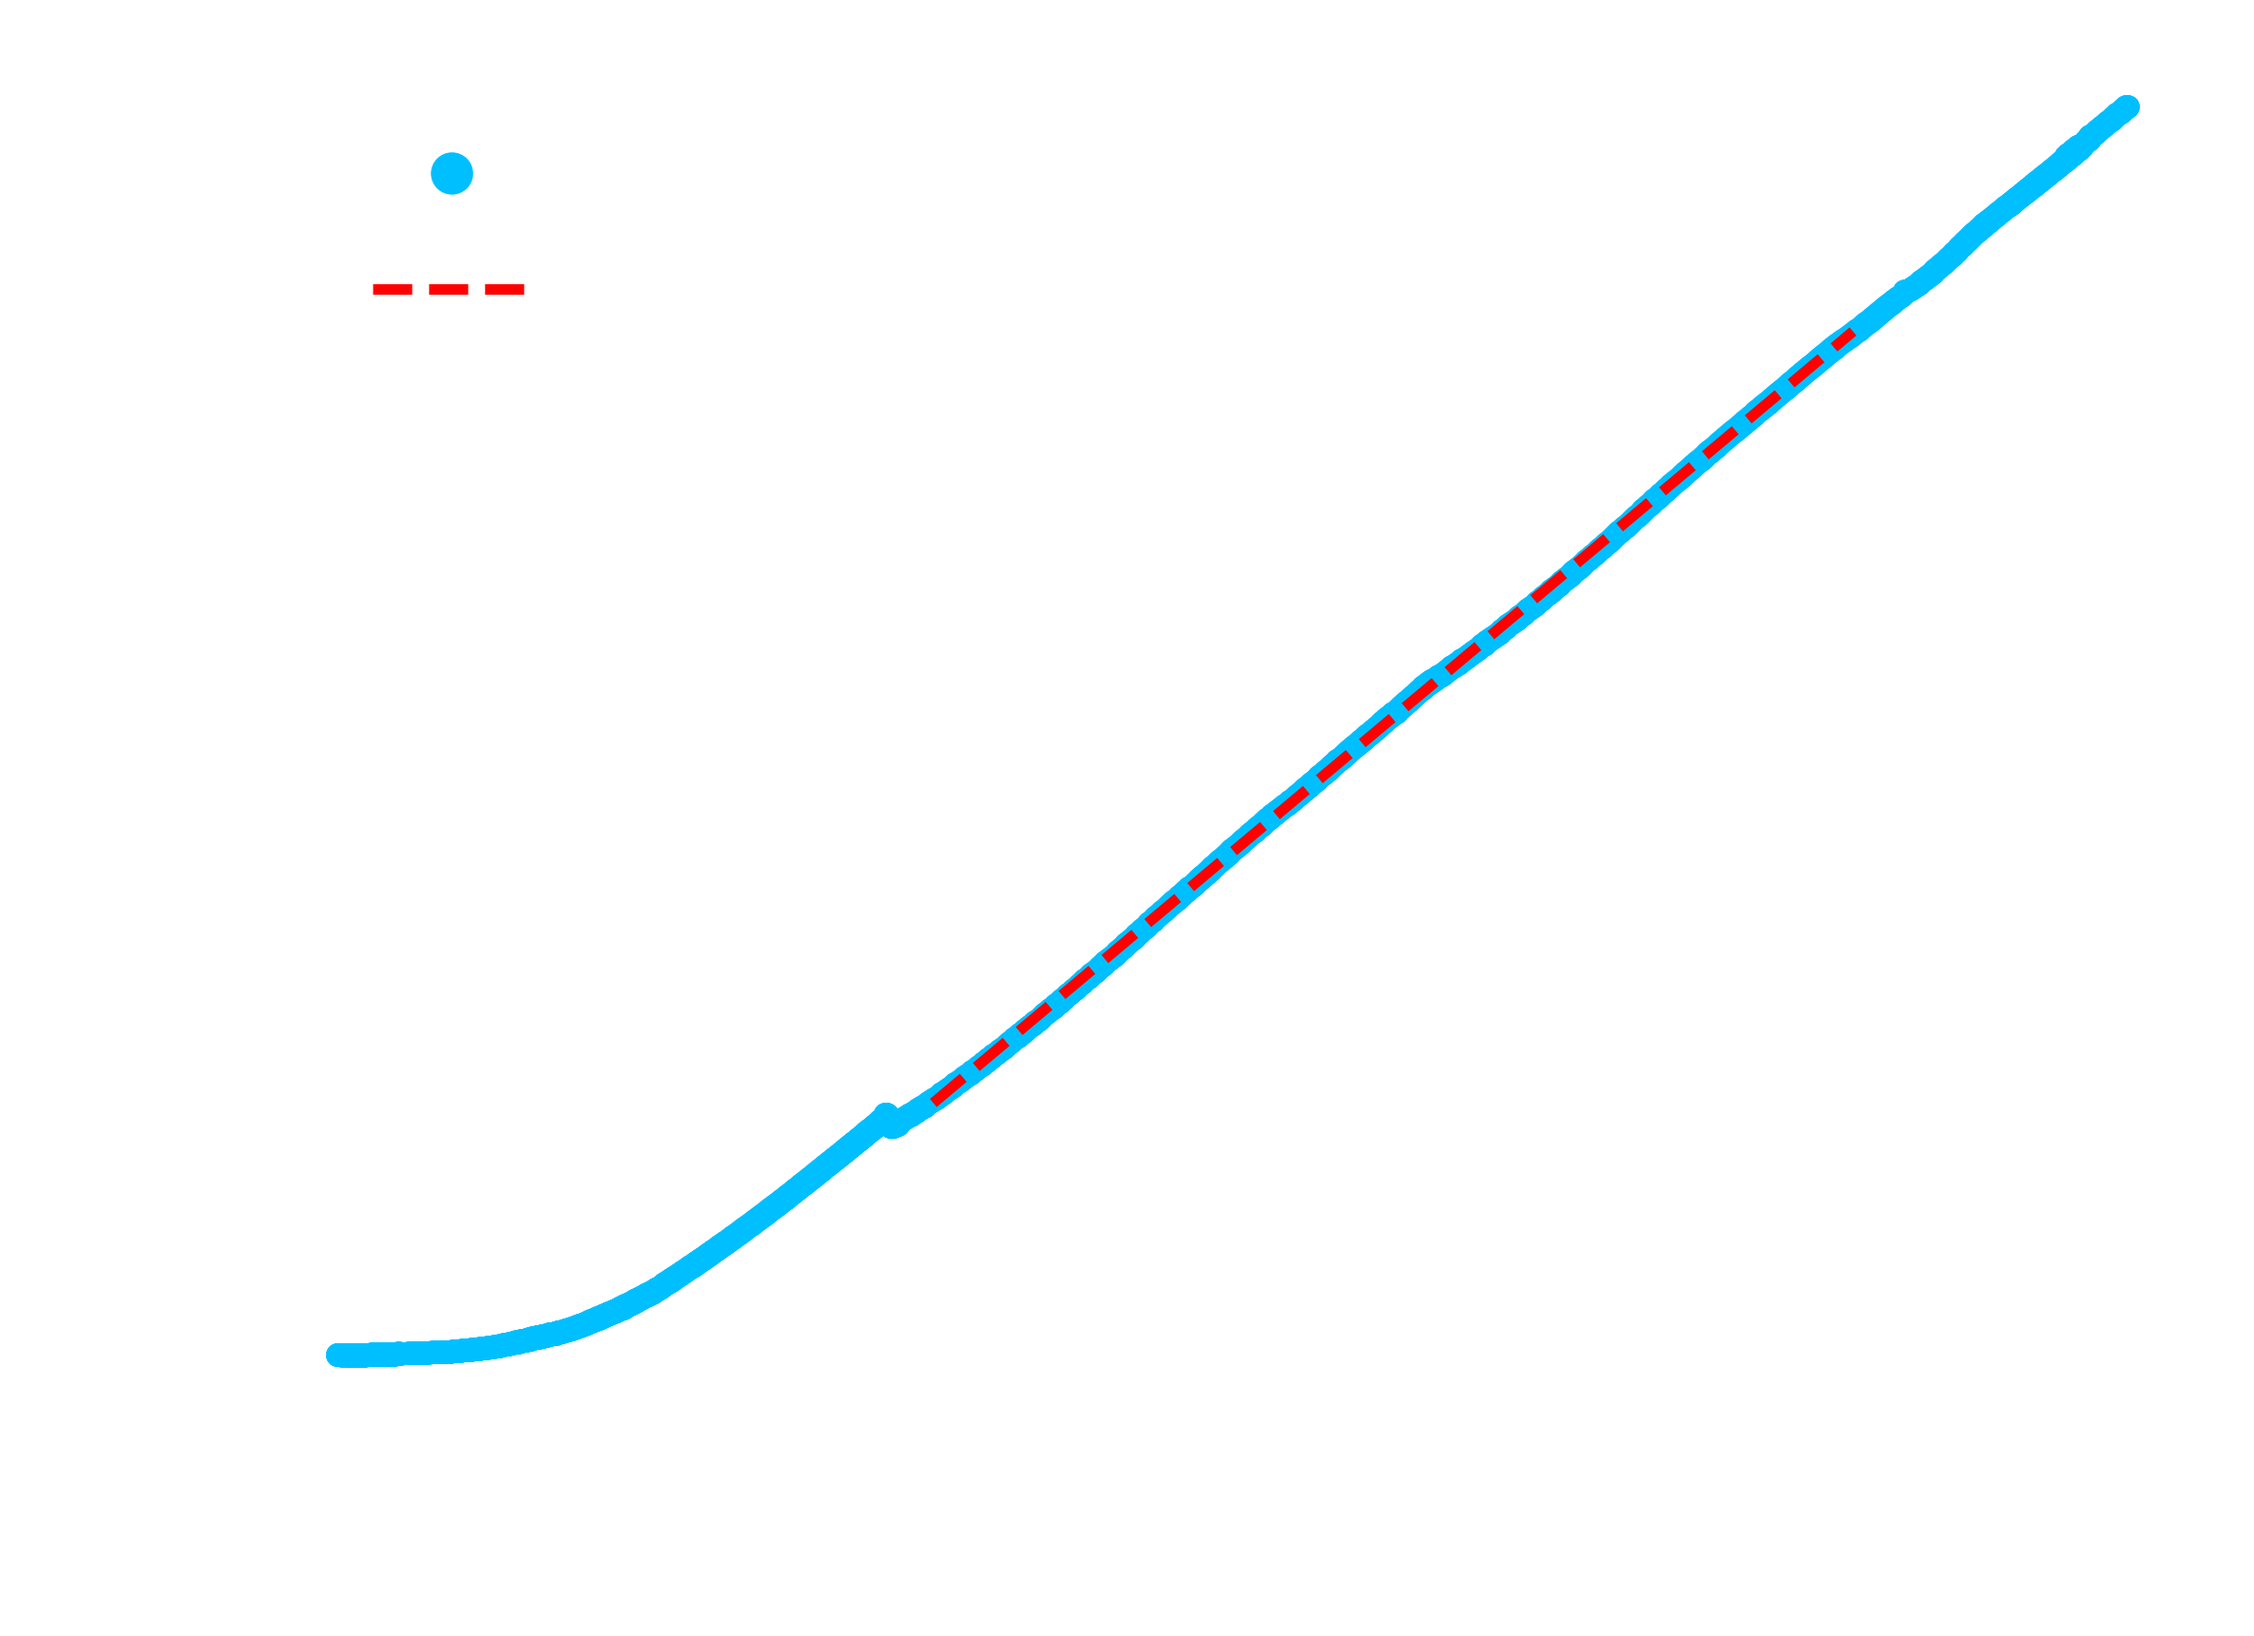
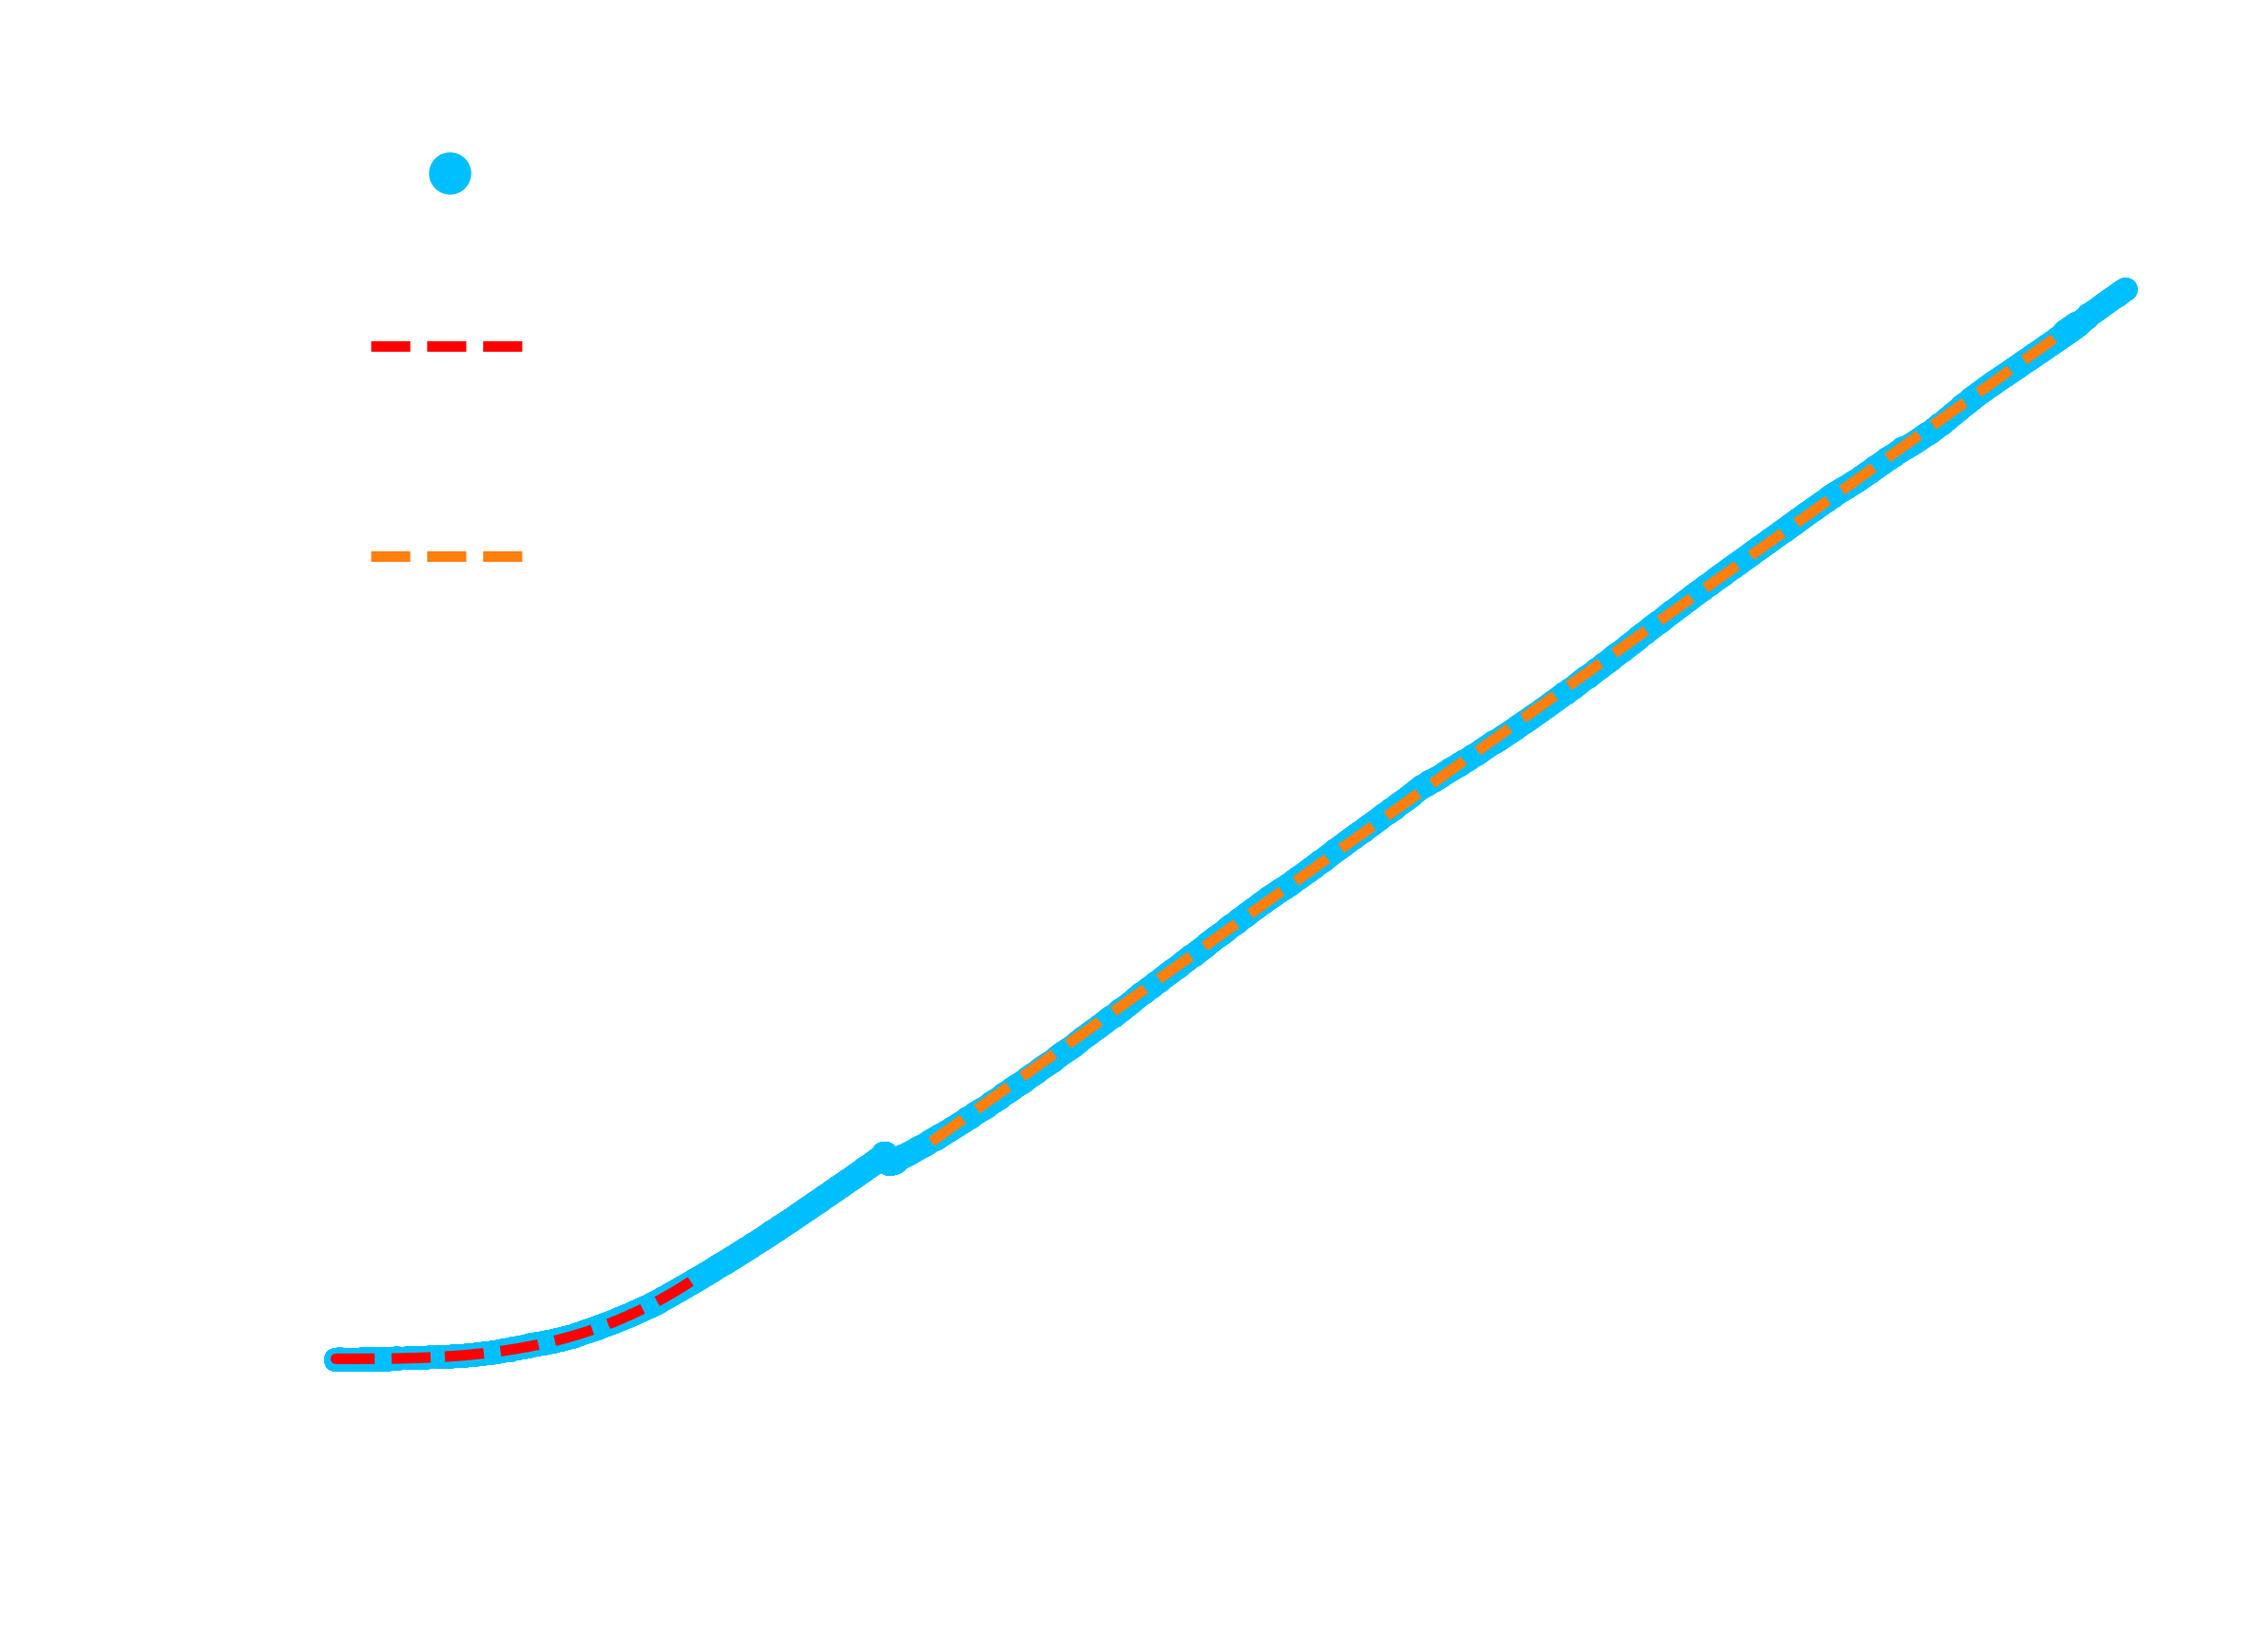
x

diff --git a/script6.py b/script6.py
@@ -92,7 +92,7 @@ class run:
 		plt.savefig(self.export_folder+"R_Cu(T)"+self.export_extension, bbox_inches='tight', dpi=self.dpi)
 		plt.show()
 		
-		
+		'''
 		# fitting the T^3 function
 		plot_range = [0,1087]
 		fit_range = [0,800]
@@ -118,8 +118,7 @@ class run:
 		fig = plt.figure(figsize=self.figsize, dpi=80).add_subplot(1, 1, 1)
 		plt.plot(T, R_P_1, '.', label=r'$R_{Cu}$', color = "deepskyblue", markersize=self.markersize)
 		T = np.linspace(T[0],T[-1],1000)
-		plt.plot(T[fit_range[0]:fit_range[1]], func1(T[fit_range[0]:fit_range[1]], *popt), 'r--', label=r"Fit: $R = a\cdot(T+b)^3 + c$", linewidth=self.linewidth_fit)
-			
+		plt.plot(T[fit_range[0]:fit_range[1]], func1(T[fit_range[0]:fit_range[1]], *popt), 'r--', label=r"Fit: $R = a\cdot(T+b)^3 + c$", linewidth=self.linewidth_fit)	
 		plt.xlabel(r"Temperatur T / K")
 		plt.ylabel(r"Widerstand $R_{Cu}$ / $\Omega$")
 		plt.legend(markerscale=2)
@@ -128,28 +127,48 @@ class run:
 		maximize()
 		plt.savefig(self.export_folder+"R_Cu(T)_T3_Fit"+self.export_extension, bbox_inches='tight', dpi=self.dpi)
 		plt.show()
+		'''
 
-			
+		
 		t, T, R_P_1, R_T, R_P_2 = data['t'],data['T'],data['R_P_1'],data['R_T'],data['R_P_2']
 		
-		
-		# fitting the linear T function
+		# fitting the linear T function with T^3
 		plot_range = [2647,3850]
-		fit_range = [2647,3800]
 			
-		fit_parameters = [["m" ,"n"],   
+		# fitting the T^3 function
+		fit_range3 = [0,1500]
+		
+		fit_parameters = [["a" ,"b", "c"],   
+										  [ 1e-5,		 -0.01, 0.1],		  # max bounds
+										  [2e-6,   -4.2, 0.07],		# start values
+										  [1e-6, -10, 0]]		 # min bounds
+		
+		popt, pcov = curve_fit(func1, T[fit_range3[0]:fit_range3[1]], R_P_1[fit_range3[0]:fit_range3[1]], fit_parameters[2], bounds=(fit_parameters[3],fit_parameters[1]))
+		
+		popt1 = popt.copy()
+		pcov1 = pcov.copy()
+		
+		K_1=func1(4.2, popt[0], popt[1], popt[2])
+		print("Fit eq: y= a*(x+b)^3")
+		print("a= {:.4g} +/- {:.4g}, b= {:.4g} +/- {:.4g}, c= {:.4g} +/- {:.4g}".format(popt1[0], np.sqrt(np.diag(pcov))[0], popt1[1], np.sqrt(np.diag(pcov))[1], popt1[2], np.sqrt(np.diag(pcov1))[2]))
+		print("R(4.2K)= {:.4g}".format(K_1))
+
+		# fitting the linear T function
+		fit_range = [2647,4200]
+		
+		fit_parameters = [["m"   ,  "n"],   
 										  [   0.1,  0.0],		  # max bounds
-										  [  0.01,  -0.5],		# start values
-										  [ 0.001,  -2]]		 # min bounds
+										  [  0.01, -0.5],		# start values
+										  [ 0.001,   -2]]		 # min bounds
 			
 		popt, pcov = curve_fit(lin, T[fit_range[0]:fit_range[1]], R_P_1[fit_range[0]:fit_range[1]], fit_parameters[2], bounds=(fit_parameters[3],fit_parameters[1]))
-			
-		opt_fit_parameters2 = popt.copy()
+		
+		popt2 = popt.copy()
 		pcov2 = pcov.copy()
 		K_2=lin(300, popt[0], popt[1])
 		RRR=K_2/K_1
 		print("Fit eq: y= m*x+n")
-		print("m= {:.4g} +/- {:.4g}, n= {:.4g} +/- {:.4g}".format(opt_fit_parameters2[0], np.sqrt(np.diag(pcov2))[0], opt_fit_parameters2[1], np.sqrt(np.diag(pcov2))[1]))
+		print("m= {:.4g} +/- {:.4g}, n= {:.4g} +/- {:.4g}".format(popt2[0], np.sqrt(np.diag(pcov2))[0], popt2[1], np.sqrt(np.diag(pcov2))[1]))
 		print("R(300K)= {:.4g}".format(K_2))
 		print("RRR=R(300K)/R(4.2K)= {:.4g}".format(RRR))
 			
@@ -157,16 +176,17 @@ class run:
 		print(r"Resistance of Cu over Temperature")
 		fig = plt.figure(figsize=self.figsize, dpi=80).add_subplot(1, 1, 1)
 		plt.plot(T,R_P_1,'.',  label=r'$R_{Cu}$', color = "deepskyblue", markersize=self.markersize)
-		plt.plot(T[fit_range[0]:fit_range[1]], lin(T[fit_range[0]:fit_range[1]], *popt), 'r--', label=r"Fit: $R = m\cdot T + n$", linewidth=self.linewidth_fit)
-			
+		plt.plot(T[fit_range3[0]:fit_range3[1]], func1(T[fit_range3[0]:fit_range3[1]], *popt1), 'r--', label=r"Fit: $R = a\cdot(T+b)^3 + c$"+"\n"+r"$\Rightarrow$ R(4,2K)={:.5}$\Omega$".format(K_1), linewidth=self.linewidth_fit)
+		plt.plot(T[fit_range[0]:fit_range[1]], lin(T[fit_range[0]:fit_range[1]], *popt2), '--', color="tab:orange", label=r"Lin. Fit: $R = m\cdot T + n$"+"\n"+r"$\Rightarrow$ R(300K)={:.5}$\Omega$".format(K_2), linewidth=self.linewidth_fit)
 		plt.xlabel(r"Temperatur T / K")
-		plt.ylabel(r"Widerstand $R_{Cu}$ / $\Omega$")
+		plt.ylabel(r"Cu Widerstand R / $\Omega$")
 		plt.legend(markerscale=2)
 		plt.xlim(0, None)
-		plt.ylim(0, 3)
+		plt.ylim(0, 3.5)
 		maximize()
 		plt.savefig(self.export_folder+"R_Cu(T)_T_Fit"+self.export_extension, bbox_inches='tight', dpi=self.dpi)
 		plt.show()
+
 		
 		# R(T) = R_rest + R_T(T)
 		# R_rest = R(4,2K) = K_1
@@ -176,9 +196,9 @@ class run:
 		# Daraus folgt Anstieg m = 1,17 R_T(Theta_D)/Theta_D, und n = -0.17R_T(Theta_D)
 		# m und n oben aus linearem Fit bestimmt. (wobei von n der Wert von R_rest = K_1 abgezogen werden muss)
 		# daraus folgt Theta_D = -1.17*n/(0.17*m)
-		n = opt_fit_parameters2[1]
-		m = opt_fit_parameters2[0]
-		Theta_D_Cu = -1.17*(n-K_1)/(0.17*opt_fit_parameters2[0])
+		n = popt2[1]
+		m = popt2[0]
+		Theta_D_Cu = -1.17*(n-K_1)/(0.17*popt2[0])
 		
 		# Gausschefehlerfortpflanzung um Delta Theta_D zu bestimmen aus fit unsicherheiten von m und n
 		Delta_m = np.sqrt(np.diag(pcov2))[0]
@@ -297,9 +317,9 @@ class run:
 		y= np.log(sigma)
 		
 		# linear fit
-		plot_range = [0,3709]
-		fit_range2 = [2650, 3415]
-		fit_plot_range2 = [2650, 3415]
+		plot_range = [0,3630]
+		fit_range2 = [3550, 3603]
+		fit_plot_range2 = [3300, 3603]
 		
 		fit_parameters_Si_lin = [["m", "n"],
 														 [-1  ,   1]]		 # start values
@@ -310,13 +330,24 @@ class run:
 		
 		
 		print("ln(sigma) of Si over inverse Temperature")
+		
+		e=1.602176634e-19 
+		kbt=(1.38064852e-23)/e # eV/K
+		
+		print("Parameter der lin Fits:\n")
+		print("m = {:.4g} +/- {:.4g}, n = {:.4g} +/- {:.4g}".format(popt_sigma_lin[0], np.diag(pcov_sigma_lin)[0], popt_sigma_lin[1], np.diag(pcov_sigma_lin)[1]))
+		print("E_Don = {:.4g} +/- {:.4g} eV".format(-2*popt_sigma_lin[0]*kbt, np.abs(-2*kbt*np.diag(pcov_sigma_lin)[0])))
+		E_donor_lit = 0.045 # eV
+		print("E_Don_lit - E_Don_1 = {:.4g}".format(np.abs(E_donor_lit + 2*popt_sigma_lin[0]*kbt)))
+
+		
 		fig = plt.figure(figsize=self.figsize2, dpi=80).add_subplot(1, 1, 1)
 		plt.plot(x[plot_range[0]:plot_range[1]], y[plot_range[0]:plot_range[1]],'.', label='ln($\sigma$)', color = "deepskyblue", markersize=self.markersize)
-		plt.plot(x[fit_plot_range2[0]:fit_plot_range2[1]], lin(x, *popt_sigma_lin)[fit_plot_range2[0]:fit_plot_range2[1]], 'r--', label="Lin. Fit", linewidth=self.linewidth_fit)
-		plt.xlabel(r"reziproke Temperatur 1/T / 1/K")
-		plt.ylabel(r"ln($\sigma$) von Si")
-		plt.legend()
-		#plt.xlim(0, 0.04)
+		plt.plot(x[fit_plot_range2[0]:fit_plot_range2[1]], lin(x, *popt_sigma_lin)[fit_plot_range2[0]:fit_plot_range2[1]], 'r--', label=r"Lin. Fit: $R = m\cdot\frac{1}{T} + n$"+"\n"+r"m=({:.4}$\pm${:.3})mT/K".format(popt_sigma_lin[0],np.sqrt(np.diag(pcov_sigma_lin))[0]), linewidth=self.linewidth_fit)
+		plt.xlabel(r"reziproke Temperatur 1 / T")
+		plt.ylabel(r"ln($\sigma$)")
+		plt.legend(markerscale=2, loc="lower left")
+		plt.xlim(0, None)
 		#plt.ylim(0, 120)
 		maximize()
 		plt.savefig(self.export_folder+"LN_Sigma_Si(inv_T)"+self.export_extension, bbox_inches='tight', dpi=self.dpi)

diff --git a/script5.py b/script5.py
@@ -174,7 +174,7 @@ class run:
 		fit_plot_range_os_r = [None, None]
 		#fit_plot_range_os_r = fit_range_os_r
 			
-		data = dataSet[1]
+		data = dataSet[0]
 		t_data = data['t']
 		T_data = data['T']
 		R_data = data['R_P_1']
@@ -235,7 +235,7 @@ class run:
 		fit_plot_range_os_r = [None, None]
 		#fit_plot_range_os_r = fit_range_os_r
 			
-		data = dataSet[1]
+		data = dataSet[0]
 		t_data = data['t']
 		T_data = data['T']
 		R_data = data['R_P_1']
@@ -299,7 +299,7 @@ class run:
 		fit_plot_range_os_r = [None, None]
 		#fit_plot_range_os_r = fit_range_os_r
 			
-		data = dataSet[1]
+		data = dataSet[0]
 		t_data = data['t']
 		T_data = data['T']
 		R_data = data['R_P_1']
@@ -411,8 +411,8 @@ class run:
 		plt.plot(T_data_90p, B_data, 'o', color = "tab:orange")
 		T_data_10p = np.linspace(T_data_10p[fit_plot_range[0]:fit_plot_range[1]][0],T_data_10p[fit_plot_range[0]:fit_plot_range[1]][-1],1000)
 		T_data_90p = np.linspace(T_data_90p[fit_plot_range[0]:fit_plot_range[1]][0],T_data_90p[fit_plot_range[0]:fit_plot_range[1]][-1],1000)
-		plt.plot(T_data_10p, lin(T_data_10p, *popt_10p), '--', markersize=self.markersize, color= "deepskyblue", label = r"Lin. Fit: $y=S\cdot x+a$"+"\n"+r"S=({:.4}$\pm${:.3})mT/K".format(popt_10p[1],np.sqrt(np.diag(pcov_10p))[1]))
-		plt.plot(T_data_90p, lin(T_data_90p, *popt_90p), '--', markersize=self.markersize, color= "tab:orange", label = r"Lin. Fit: $y=S\cdot x+a$"+"\n"+r"S=({:.4}$\pm${:.3})mT/K".format(popt_90p[1],np.sqrt(np.diag(pcov_90p))[1]))
+		plt.plot(T_data_10p, lin(T_data_10p, *popt_10p), '--', markersize=self.markersize, color= "deepskyblue", label = r"Lin. Fit: $B_C=S\cdot T_C+a$"+"\n"+r"S=({:.4}$\pm${:.3})mT/K".format(popt_10p[1],np.sqrt(np.diag(pcov_10p))[1]))
+		plt.plot(T_data_90p, lin(T_data_90p, *popt_90p), '--', markersize=self.markersize, color= "tab:orange", label = r"Lin. Fit: $B_C=S\cdot T_C+a$"+"\n"+r"S=({:.4}$\pm${:.3})mT/K".format(popt_90p[1],np.sqrt(np.diag(pcov_90p))[1]))
 		plt.xlabel(r"$T_C$ / K")
 		plt.ylabel(r"$B_C$ / mT")
 		plt.xlim(None,10.5)
